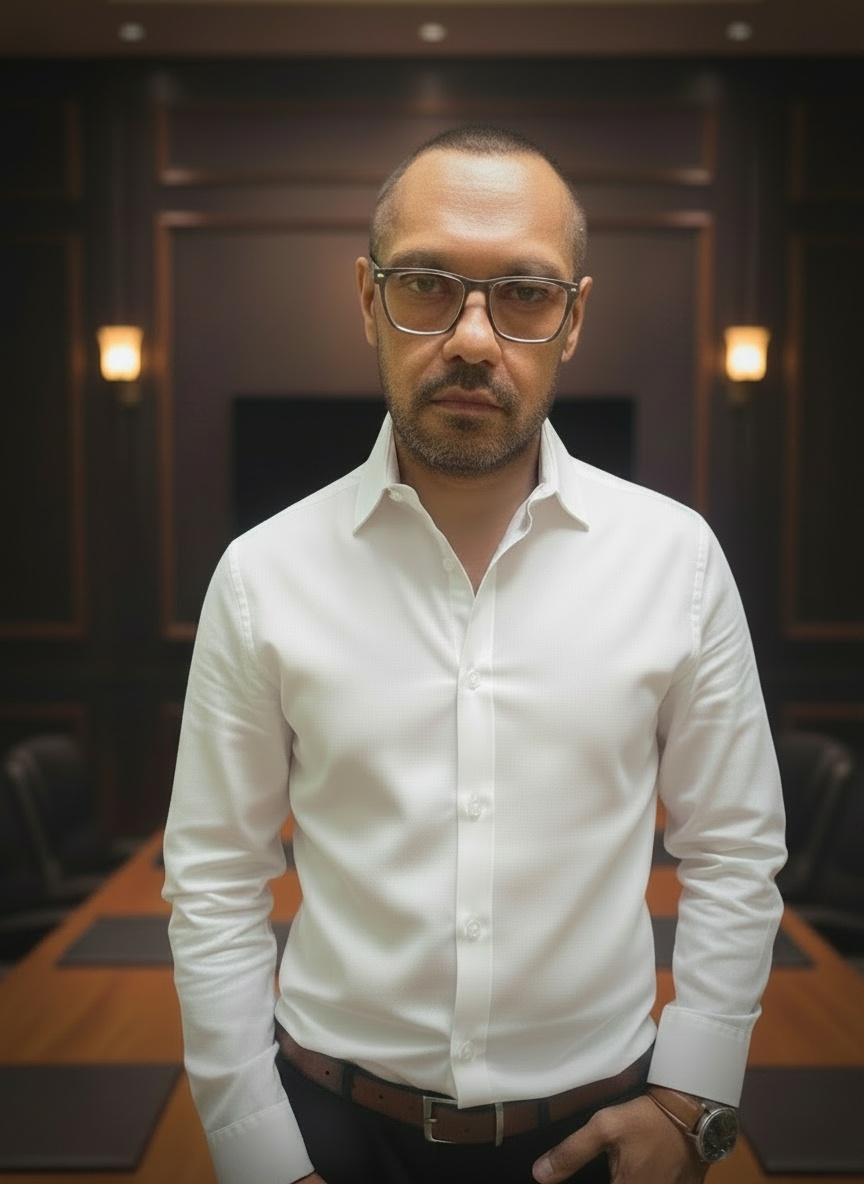
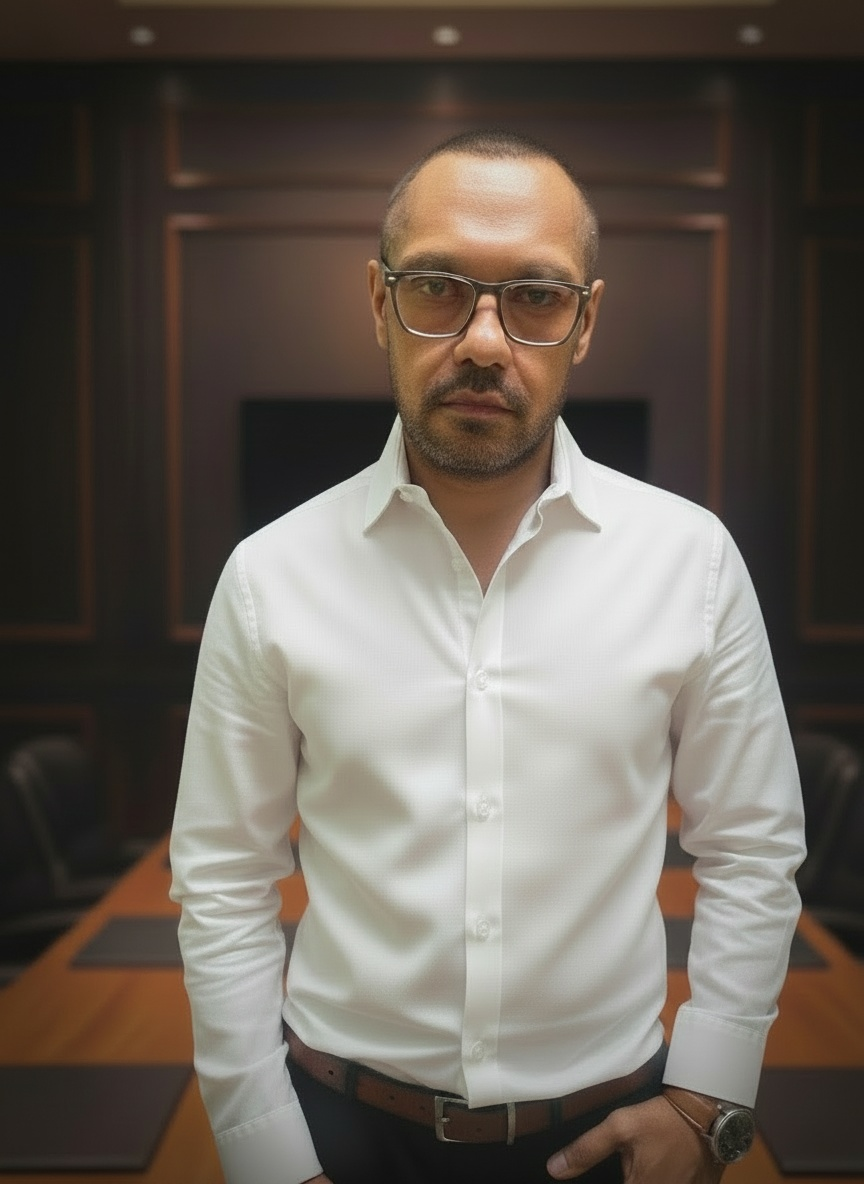
v3.2.2: portrait — combined face tone + stomach smoothing, no sconces
User flagged two issues with v3.2.1:
  1. Wall sconces nano-banana incidentally added in v3.2.1 (pass 4)
     are reading as visual noise in the background.
  2. The face tone correction itself didn't appear to land
     visibly enough.

Fix: restart from V3-Clean/05-pass3-final.jpg (the version BEFORE
sconces were introduced) and apply BOTH the face tone correction
AND the stomach smoothing in a single pass, with explicit
"DO NOT add wall sconces, lamps, light fixtures, picture frames,
or any other architectural or decorative elements that are not
already in the source image."

Result (V3-Clean/08-pass6-clean-no-sconces.jpg):
  ✓ No wall sconces — back wall is clean blurred wood paneling
  ✓ Face brightness reduced ~15-20%, forehead no longer a hot spot
  ✓ Skin tone closer to neutral, background keeps its warmth
  ✓ Stomach silhouette ~8-10% flatter, fabric smoother across the
    midsection, cotton weave preserved (not vacuum-sealed)
  ✓ All v3.2.0 atmosphere preserved: vignette, bg blur, foreground
    table depth, directional key light, eye clarity, shirt sleeves
  ✓ Subject identity, hand-in-pocket, watch, belt, posture intact

V3-Clean folder now:
  05-pass3-final.jpg              (v3.2.0, over-glowed but no sconces)
  06-pass4-tone-correction.jpg    (v3.2.1, glow fixed but added sconces)
  07-pass5-stomach-smooth.jpg     (intermediate stomach pass on top of 06)
  08-pass6-clean-no-sconces.jpg   <-- shipped as portrait.jpg
[…]

diff --git a/index.html b/index.html
@@ -388,7 +388,7 @@
         <div class="about-grid">
           <figure class="portrait-figure">
             <div class="portrait-artwork">
-              <img src="assets/portrait.jpg?v=3.2.1"
+              <img src="assets/portrait.jpg?v=3.2.2"
                    alt="Taran Aujla, Salesperson with HomeLife G1 Realty Inc., Brokerage. Editorial portrait."
                    width="880" height="1184"
                    loading="lazy" decoding="async" />
